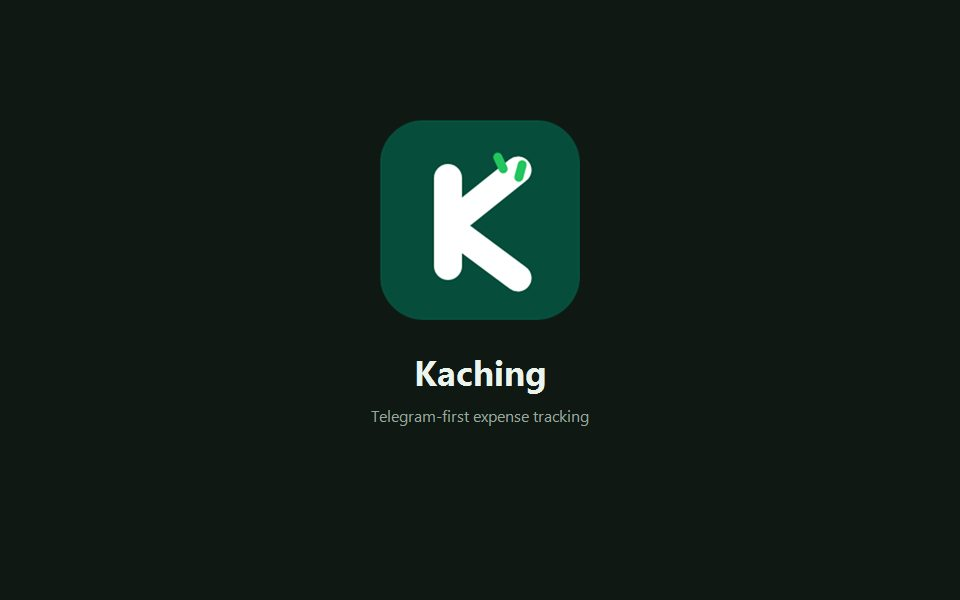
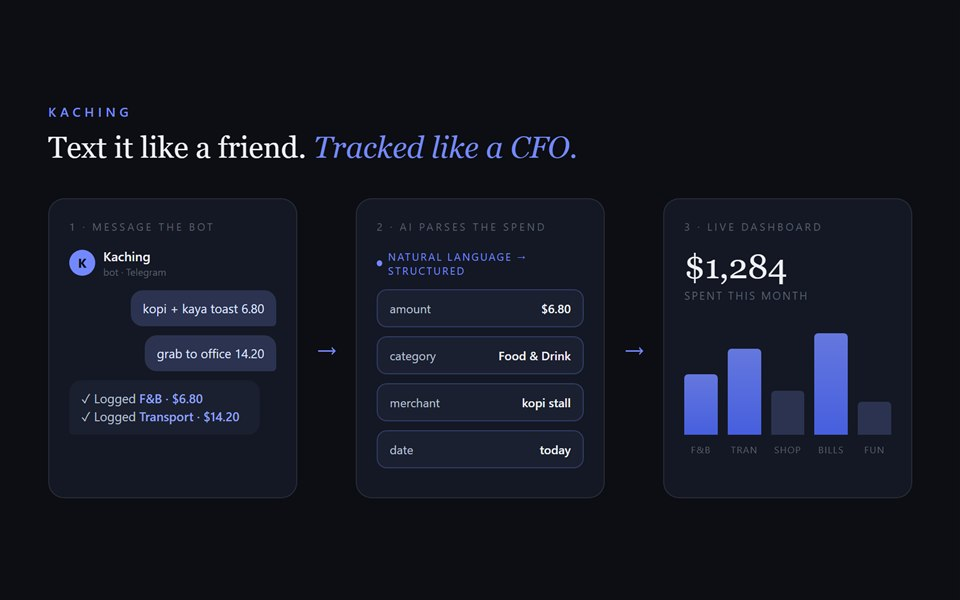
projects: image lightbox, AI-band revisions, stop-slop About copy
- Click any project cover to zoom (lightbox: click/Esc to zoom out)
- Portfolio row no longer routes to GitHub; links to #top with a pulsing
  "You're on it" live badge on its cover (it IS this site)
- Kaching cover replaced with a 3-stage pipeline mockup (Telegram msg ->
  AI parse -> live dashboard), on-brand, demo-request mailto kept
- Agentic OS description expanded to the daily-workflow role it plays
- About body + availability rewritten per stop-slop skill (em-dashes and
  filler removed, meaning preserved)

diff --git a/src/styles/site.css b/src/styles/site.css
@@ -443,14 +443,98 @@ html.has-cursor [data-cursor] {
   border-bottom: 1px solid var(--hairline);
   transition: background-color 0.3s ease;
 }
-/* Cover thumbnail: one strong chart per project, slow zoom on row hover. */
+/* Cover thumbnail: one strong chart per project, slow zoom on row hover.
+   Clicking opens the lightbox instead of following the row link. */
 .project-thumb {
   display: block;
+  position: relative;
   aspect-ratio: 8 / 5;
   border-radius: 10px;
   overflow: hidden;
   border: 1px solid var(--hairline);
   background: var(--glass);
+  cursor: zoom-in;
+}
+/* Live pill on the portfolio cover: "you're looking at the vibe-coded thing" */
+.thumb-badge {
+  position: absolute;
+  left: 8px;
+  bottom: 8px;
+  display: inline-flex;
+  align-items: center;
+  gap: 0.45rem;
+  font-family: var(--sans);
+  font-size: 0.56rem;
+  font-weight: 500;
+  letter-spacing: 0.16em;
+  text-transform: uppercase;
+  color: #eef0f4;
+  background: rgba(13, 14, 19, 0.72);
+  border: 1px solid rgba(115, 136, 255, 0.45);
+  border-radius: 999px;
+  padding: 0.3rem 0.65rem;
+  backdrop-filter: blur(6px);
+  -webkit-backdrop-filter: blur(6px);
+  pointer-events: none;
+}
+.thumb-badge i {
+  width: 6px;
+  height: 6px;
+  border-radius: 50%;
+  background: #7388ff;
+  animation: badge-pulse 1.8s ease-in-out infinite;
+}
+@keyframes badge-pulse {
+  0%,
+  100% {
+    box-shadow: 0 0 0 0 rgba(115, 136, 255, 0.55);
+  }
+  50% {
+    box-shadow: 0 0 0 5px rgba(115, 136, 255, 0);
+  }
+}
+
+/* Lightbox: click a cover to zoom in; click anywhere / Esc to zoom out. */
+.lightbox {
+  position: fixed;
+  inset: 0;
+  z-index: 96;
+  display: flex;
+  flex-direction: column;
+  align-items: center;
+  justify-content: center;
+  gap: 1.1rem;
+  padding: clamp(1rem, 4vw, 3rem);
+  background: rgba(8, 9, 14, 0.84);
+  backdrop-filter: blur(10px);
+  -webkit-backdrop-filter: blur(10px);
+  cursor: zoom-out;
+  animation: lb-in 0.28s ease;
+}
+.lightbox img {
+  max-width: min(92vw, 1100px);
+  max-height: 82vh;
+  border-radius: 12px;
+  border: 1px solid rgba(238, 240, 244, 0.14);
+  box-shadow: 0 40px 90px rgba(0, 0, 0, 0.5);
+  animation: lb-img 0.35s cubic-bezier(0.23, 1, 0.32, 1);
+}
+.lightbox-hint {
+  font-size: 0.64rem;
+  letter-spacing: 0.22em;
+  text-transform: uppercase;
+  color: #99a0b0;
+}
+@keyframes lb-in {
+  from {
+    opacity: 0;
+  }
+}
+@keyframes lb-img {
+  from {
+    transform: scale(0.92);
+    opacity: 0;
+  }
 }
 .project-thumb img {
   width: 100%;

diff --git a/src/components/Projects.tsx b/src/components/Projects.tsx
@@ -5,7 +5,10 @@
 // else. Whole rows are links.
 // ---------------------------------------------------------------------------
 
+import { useEffect, useState } from "react";
 import content, { FEATURED_PROJECTS, type ProjectItem } from "../content";
+
+type ZoomTarget = { src: string; alt: string };
 
 function Arrow({ size = 22 }: { size?: number }) {
   return (
@@ -15,21 +18,46 @@ function Arrow({ size = 22 }: { size?: number }) {
   );
 }
 
-function ProjectRow({ p }: { p: ProjectItem }) {
+function ProjectRow({ p, onZoom }: { p: ProjectItem; onZoom: (z: ZoomTarget) => void }) {
+  const external = p.link.startsWith("http");
+  const zoom = () => p.image && onZoom({ src: p.image, alt: p.imageAlt ?? p.title });
   return (
     <li data-reveal>
       <a
         className="project-row"
         href={p.link}
-        target={p.link.startsWith("mailto:") ? undefined : "_blank"}
-        rel="noreferrer"
+        target={external ? "_blank" : undefined}
+        rel={external ? "noreferrer" : undefined}
         data-cursor
         data-spotlight
       >
         <span className="project-No">{p.index}</span>
         {p.image && (
-          <span className="project-thumb">
+          <span
+            className="project-thumb"
+            role="button"
+            tabIndex={0}
+            aria-label={`Zoom image: ${p.imageAlt ?? p.title}`}
+            onClick={(e) => {
+              e.preventDefault();
+              e.stopPropagation();
+              zoom();
+            }}
+            onKeyDown={(e) => {
+              if (e.key === "Enter" || e.key === " ") {
+                e.preventDefault();
+                e.stopPropagation();
+                zoom();
+              }
+            }}
+          >
             <img src={p.image} alt={p.imageAlt ?? `${p.title} preview`} loading="lazy" />
+            {p.badge && (
+              <span className="thumb-badge">
+                <i aria-hidden="true" />
+                {p.badge}
+              </span>
+            )}
           </span>
         )}
         <span className="project-main">
@@ -53,6 +81,14 @@ export default function Projects() {
   const all: ProjectItem[] = content.projects;
   const dataWork = all.filter((p) => p.kind === "data").slice(0, FEATURED_PROJECTS);
   const aiWork = all.filter((p) => p.kind === "ai");
+  const [zoom, setZoom] = useState<ZoomTarget | null>(null);
+
+  useEffect(() => {
+    if (!zoom) return;
+    const onKey = (e: KeyboardEvent) => e.key === "Escape" && setZoom(null);
+    window.addEventListener("keydown", onKey);
+    return () => window.removeEventListener("keydown", onKey);
+  }, [zoom]);
 
   return (
     <section className="section projects" id="work">
@@ -79,7 +115,7 @@ export default function Projects() {
         </p>
         <ul className="project-list" data-reveal-group data-skew>
           {dataWork.map((p) => (
-            <ProjectRow p={p} key={p.index} />
+            <ProjectRow p={p} key={p.index} onZoom={setZoom} />
           ))}
         </ul>
 
@@ -88,7 +124,7 @@ export default function Projects() {
         </p>
         <ul className="project-list" data-reveal-group data-skew>
           {aiWork.map((p) => (
-            <ProjectRow p={p} key={p.index} />
+            <ProjectRow p={p} key={p.index} onZoom={setZoom} />
           ))}
         </ul>
 
@@ -112,6 +148,19 @@ export default function Projects() {
           </span>
         </a>
       </div>
+
+      {zoom && (
+        <div
+          className="lightbox"
+          role="dialog"
+          aria-modal="true"
+          aria-label={zoom.alt}
+          onClick={() => setZoom(null)}
+        >
+          <img src={zoom.src} alt={zoom.alt} />
+          <span className="lightbox-hint">Click anywhere or press Esc to close</span>
+        </div>
+      )}
     </section>
   );
 }

diff --git a/src/content.ts b/src/content.ts
@@ -53,6 +53,8 @@ export interface ProjectItem {
   /** Cover chart under /public/projects — one strong image per project. */
   image?: string;
   imageAlt?: string;
+  /** Small live-pill overlaid on the cover (e.g. "You're on it"). */
+  badge?: string;
   /** Which Work band the project renders in. */
   kind: "data" | "ai";
 }
@@ -83,8 +85,8 @@ export const content = {
     lead: "I turn messy, real-world data into insight people can act on.",
     body:
       "I'm an NUS Master of Communication graduate (Data and Communication), and a First Class LSE graduate in Data Science & Business Analytics. " +
-      "My work sits at the intersection of analytics and partnerships across fintech and banking — building dashboards, automating reporting, and digging into transaction data. " +
-      "Day to day, that means Python, SQL, and BI tools — and staying curious about what the numbers are actually trying to say.",
+      "My work spans analytics and partnerships across fintech and banking: building dashboards, automating reporting, and digging into transaction data. " +
+      "Day to day, that means Python, SQL, and BI tools, and staying curious about what the numbers are trying to say.",
   },
 
   stats: [
@@ -215,11 +217,12 @@ export const content = {
       index: "04",
       title: "This Portfolio Site",
       description:
-        "The site you're on — a three.js silk shader, GSAP scroll choreography, and React, designed and shipped end-to-end in partnership with Claude Code.",
+        "The site you're on: a three.js silk shader, GSAP scroll choreography, and React, designed and shipped end-to-end in partnership with Claude Code.",
       tags: ["Claude Code", "three.js", "React"],
-      link: "https://github.com/Jason-Joseph/website-portfolio",
+      link: "#top",
       image: "/projects/portfolio-cover.jpg",
-      imageAlt: "Hero of this portfolio — Numbers made legible, decisions made easier",
+      imageAlt: "Hero of this portfolio: numbers made legible, decisions made easier",
+      badge: "You're on it",
       kind: "ai",
     },
     {
@@ -237,7 +240,7 @@ export const content = {
       index: "06",
       title: "Kaching — Telegram Budget Tracker",
       description:
-        "A Telegram-first expense tracker: message the bot in plain language, AI parses the spend, and a live web dashboard keeps the running picture. Built for Singapore daily spending — ask me for a demo.",
+        "A Telegram-first expense tracker: message the bot in plain language, AI parses the spend, and a live web dashboard keeps the running picture. Built for Singapore daily spending. Ask me for a demo.",
       tags: ["Claude Code", "Next.js", "Telegram"],
       link: "mailto:[email redacted]?subject=Kaching%20demo",
       image: "/projects/kaching-cover.jpg",
@@ -248,7 +251,7 @@ export const content = {
       index: "07",
       title: "Agentic OS — Usage Observatory",
       description:
-        "A personal observability system for AI-assisted work: collectors and hooks feed a live HUD with a knowledge-graph globe, skill rankings, and session analytics — zero tokens spent on tracking.",
+        "The black box for my daily AI workflow. Hooks log every Claude Code session as I work, collectors distill the logs into patterns, and a live HUD surfaces skill rankings, a knowledge graph, and morning reports that tell me what to sharpen next. Tracking costs zero tokens.",
       tags: ["Claude Code", "Analytics", "Tooling"],
       link: "mailto:[email redacted]?subject=Agentic%20OS",
       image: "/projects/agentic-os-cover.jpg",
@@ -282,7 +285,7 @@ export const content = {
     github: "https://github.com/Jason-Joseph",
     location: "Singapore",
     availability:
-      "Based in Singapore — always glad to talk data, ideas, and interesting problems.",
+      "Based in Singapore, always glad to talk data, ideas, and interesting problems.",
   } satisfies Contact,
 };
 